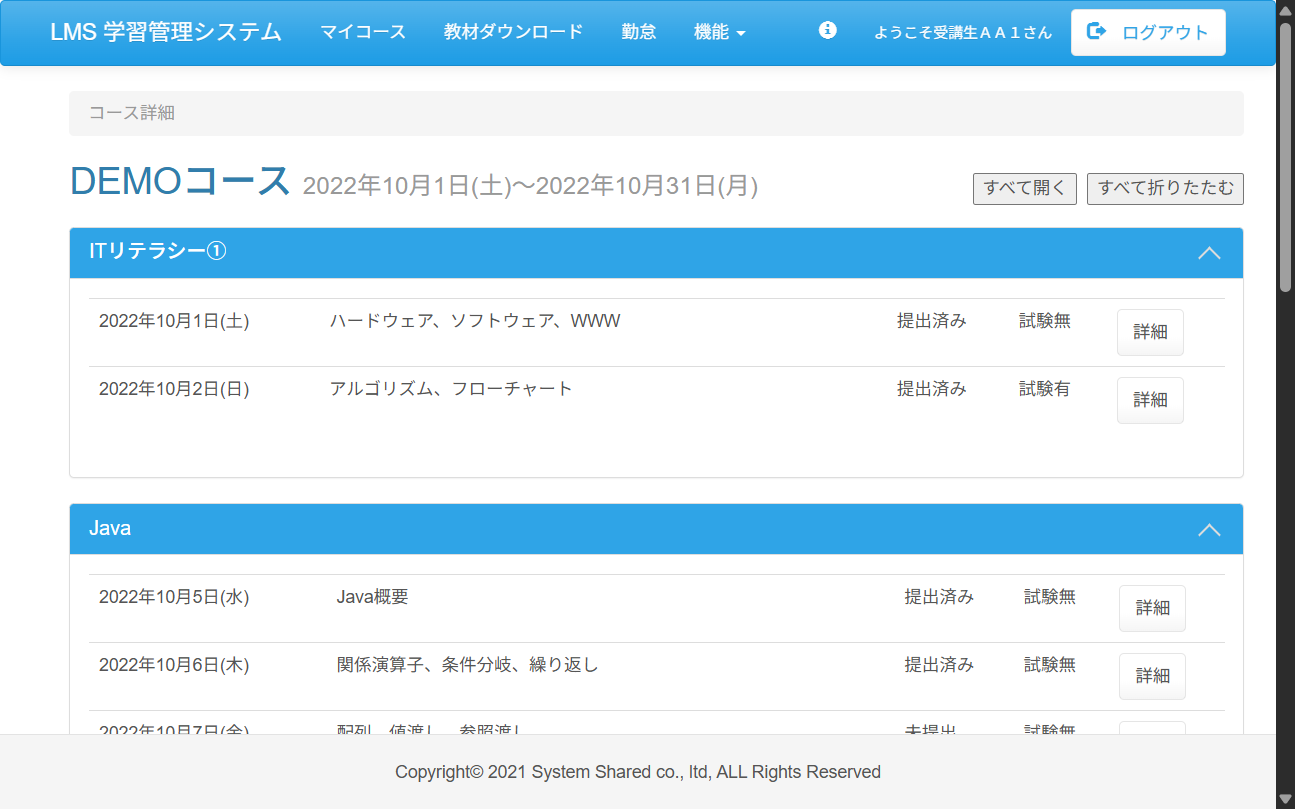
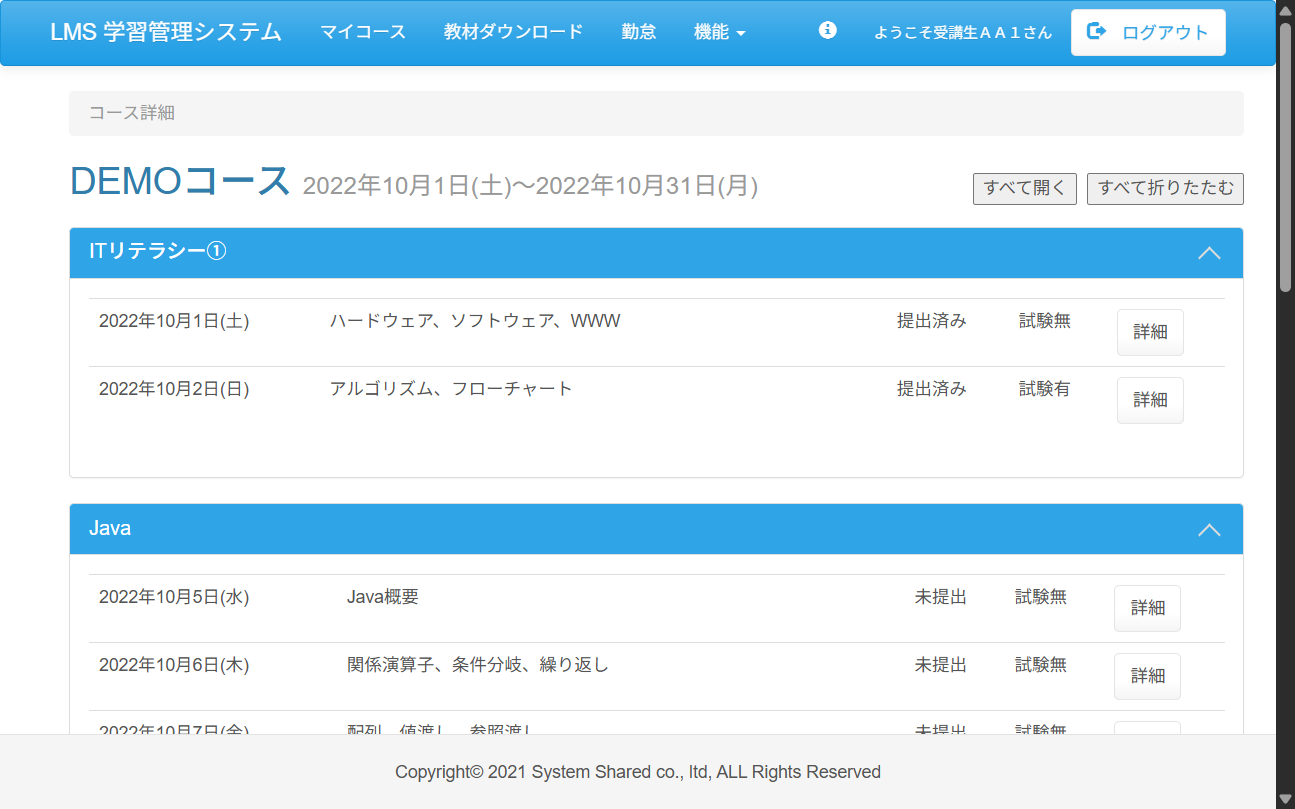
add:大橋　Case09/10
Case09/10の完了

diff --git a/test_code_creation_name/src/test/java/jp/co/sss/lms/ct/f03_report/Case09.java b/test_code_creation_name/src/test/java/jp/co/sss/lms/ct/f03_report/Case09.java
@@ -1,6 +1,7 @@
 package jp.co.sss.lms.ct.f03_report;
 
 import static jp.co.sss.lms.ct.util.WebDriverUtils.*;
+import static org.junit.jupiter.api.Assertions.*;
 
 import org.junit.jupiter.api.AfterAll;
 import org.junit.jupiter.api.BeforeAll;
@@ -9,6 +10,11 @@ import org.junit.jupiter.api.MethodOrderer.OrderAnnotation;
 import org.junit.jupiter.api.Order;
 import org.junit.jupiter.api.Test;
 import org.junit.jupiter.api.TestMethodOrder;
+import org.openqa.selenium.By;
+import org.openqa.selenium.JavascriptExecutor;
+import org.openqa.selenium.WebElement;
+
+import jp.co.sss.lms.ct.util.Constants;
 
 /**
  * 結合テスト レポート機能
@@ -35,70 +41,159 @@ public class Case09 {
 	@Order(1)
 	@DisplayName("テスト01 トップページURLでアクセス")
 	void test01() {
-		// TODO ここに追加
+		goTo("http://localhost:" + Constants.PORT + "/lms");
+		assertEquals(Constants.CONTEXT_PATH + "/", webDriver.getCurrentUrl());
+		getEvidence(new Object() {});
 	}
 
 	@Test
 	@Order(2)
 	@DisplayName("テスト02 初回ログイン済みの受講生ユーザーでログイン")
 	void test02() {
-		// TODO ここに追加
+		loginWithTheUsed();
+		assertEquals(Constants.CONTEXT_PATH + "/course/detail", webDriver.getCurrentUrl());
+		getEvidence(new Object() {});
 	}
 
 	@Test
 	@Order(3)
 	@DisplayName("テスト03 上部メニューの「ようこそ○○さん」リンクからユーザー詳細画面に遷移")
 	void test03() {
-		// TODO ここに追加
-	}
+		WebElement welcomeUser = webDriver.findElement(By.partialLinkText("ようこそ"));
+		welcomeUser.click();
+		assertEquals(Constants.CONTEXT_PATH + "/user/detail"
+				,webDriver.getCurrentUrl());
+		getEvidence(new Object() {});	}
 
 	@Test
 	@Order(4)
 	@DisplayName("テスト04 該当レポートの「修正する」ボタンを押下しレポート登録画面に遷移")
 	void test04() {
-		// TODO ここに追加
+		WebElement detailButton = webDriver.findElement(By.xpath(
+				"//th[contains(text(),'レポート')]/../.."
+				+"/tr[position() = 2]"
+				+ "/td[position() = 5]/form[position() = 2]"
+				+ "/input[contains(@value,'修正する')]"));
+		JavascriptExecutor js = (JavascriptExecutor)webDriver;
+		js.executeScript("window.scrollTo(0, document.body.scrollHeight);");
+		detailButton.click();
+		assertEquals(Constants.CONTEXT_PATH + "/report/regist"
+				,webDriver.getCurrentUrl());
+		getEvidence(new Object() {});
 	}
 
 	@Test
 	@Order(5)
 	@DisplayName("テスト05 報告内容を修正して「提出する」ボタンを押下しエラー表示：学習項目が未入力")
 	void test05() {
-		// TODO ここに追加
+		WebElement textarea = webDriver.findElement(By.id("intFieldName_0"));
+		textarea.clear();
+		WebElement select = webDriver.findElement(By.id("intFieldValue_0"));
+		select.click();
+		WebElement optionOne = webDriver.findElement(By.name("intFieldValue_$[i]"));
+		optionOne.click();
+		WebElement submit = webDriver.findElement(By.xpath(
+				"//div[contains(@class,'form-group')]"
+				+ "/div/button[contains(text(),'提出する')]"));
+		JavascriptExecutor js = (JavascriptExecutor)webDriver;
+		js.executeScript("window.scrollTo(0, document.body.scrollHeight);");
+		submit.click();
+		assertTrue(webDriver.getCurrentUrl().contains("/report/complete"));
+		getEvidence(new Object() {});
 	}
 
 	@Test
 	@Order(6)
 	@DisplayName("テスト06 不適切な内容で修正して「提出する」ボタンを押下しエラー表示：理解度が未入力")
 	void test06() {
-		// TODO ここに追加
+		WebElement textarea = webDriver.findElement(By.id("intFieldName_0"));
+		textarea.clear();
+		textarea.sendKeys("パソコン教室");
+		WebElement select = webDriver.findElement(By.id("intFieldValue_0"));
+		select.click();
+		WebElement optionOne = webDriver.findElement(By.name("intFieldValue_$[i]"));
+		WebElement optionZero = optionOne.findElement(By.xpath("../option[position()=1]"));
+		optionZero.click();
+		WebElement submit = webDriver.findElement(By.xpath(
+				"//div[contains(@class,'form-group')]"
+				+ "/div/button[contains(text(),'提出する')]"));
+		JavascriptExecutor js = (JavascriptExecutor)webDriver;
+		js.executeScript("window.scrollTo(0, document.body.scrollHeight);");
+		submit.click();
+		assertTrue(webDriver.getCurrentUrl().contains("/report/complete"));
+		getEvidence(new Object() {});
 	}
 
 	@Test
 	@Order(7)
 	@DisplayName("テスト07 不適切な内容で修正して「提出する」ボタンを押下しエラー表示：目標の達成度が数値以外")
 	void test07() {
-		// TODO ここに追加
+		WebElement textarea = webDriver.findElement(By.id("content_0"));
+		textarea.clear();
+		textarea.sendKeys("💮");
+		WebElement submit = webDriver.findElement(By.xpath(
+				"//div[contains(@class,'form-group')]"
+				+ "/div/button[contains(text(),'提出する')]"));
+		JavascriptExecutor js = (JavascriptExecutor)webDriver;
+		js.executeScript("window.scrollTo(0, document.body.scrollHeight);");
+		submit.click();
+		assertTrue(webDriver.getCurrentUrl().contains("/report/complete"));
+		getEvidence(new Object() {});
 	}
 
 	@Test
 	@Order(8)
 	@DisplayName("テスト08 不適切な内容で修正して「提出する」ボタンを押下しエラー表示：目標の達成度が範囲外")
 	void test08() {
-		// TODO ここに追加
+		WebElement textarea = webDriver.findElement(By.id("content_0"));
+		textarea.clear();
+		textarea.sendKeys("0");
+		WebElement submit = webDriver.findElement(By.xpath(
+				"//div[contains(@class,'form-group')]"
+				+ "/div/button[contains(text(),'提出する')]"));
+		JavascriptExecutor js = (JavascriptExecutor)webDriver;
+		js.executeScript("window.scrollTo(0, document.body.scrollHeight);");
+		submit.click();
+		assertTrue(webDriver.getCurrentUrl().contains("/report/complete"));
+		getEvidence(new Object() {});
 	}
 
 	@Test
 	@Order(9)
 	@DisplayName("テスト09 不適切な内容で修正して「提出する」ボタンを押下しエラー表示：目標の達成度・所感が未入力")
 	void test09() {
-		// TODO ここに追加
+		WebElement achieve = webDriver.findElement(By.id("content_0"));
+		achieve.clear();
+		WebElement opinion = webDriver.findElement(By.id("content_1"));
+		opinion.clear();
+		WebElement submit = webDriver.findElement(By.xpath(
+				"//div[contains(@class,'form-group')]"
+				+ "/div/button[contains(text(),'提出する')]"));
+		JavascriptExecutor js = (JavascriptExecutor)webDriver;
+		js.executeScript("window.scrollTo(0, document.body.scrollHeight);");
+		submit.click();
+		assertTrue(webDriver.getCurrentUrl().contains("/report/complete"));
+		getEvidence(new Object() {});
 	}
 
 	@Test
 	@Order(10)
 	@DisplayName("テスト10 不適切な内容で修正して「提出する」ボタンを押下しエラー表示：所感・一週間の振り返りが2000文字超")
 	void test10() {
-		// TODO ここに追加
+		WebElement opinion = webDriver.findElement(By.id("content_1"));
+		opinion.clear();
+		opinion.sendKeys(Constants.CHAR_2001);
+		WebElement reflection = webDriver.findElement(By.id("content_2"));
+		reflection.clear();
+		reflection.sendKeys(Constants.CHAR_2001);
+		WebElement submit = webDriver.findElement(By.xpath(
+				"//div[contains(@class,'form-group')]"
+				+ "/div/button[contains(text(),'提出する')]"));
+		JavascriptExecutor js = (JavascriptExecutor)webDriver;
+		js.executeScript("window.scrollTo(0, document.body.scrollHeight);");
+		submit.click();
+		assertTrue(webDriver.getCurrentUrl().contains("/report/complete"));
+		getEvidence(new Object() {});
 	}
 
 }

diff --git a/test_code_creation_name/src/test/java/jp/co/sss/lms/ct/f04_attendance/Case10.java b/test_code_creation_name/src/test/java/jp/co/sss/lms/ct/f04_attendance/Case10.java
@@ -1,6 +1,7 @@
 package jp.co.sss.lms.ct.f04_attendance;
 
 import static jp.co.sss.lms.ct.util.WebDriverUtils.*;
+import static org.junit.jupiter.api.Assertions.*;
 
 import org.junit.jupiter.api.AfterAll;
 import org.junit.jupiter.api.BeforeAll;
@@ -9,6 +10,11 @@ import org.junit.jupiter.api.MethodOrderer.OrderAnnotation;
 import org.junit.jupiter.api.Order;
 import org.junit.jupiter.api.Test;
 import org.junit.jupiter.api.TestMethodOrder;
+import org.openqa.selenium.Alert;
+import org.openqa.selenium.By;
+import org.openqa.selenium.WebElement;
+
+import jp.co.sss.lms.ct.util.Constants;
 
 /**
  * 結合テスト 勤怠管理機能
@@ -35,35 +41,71 @@ public class Case10 {
 	@Order(1)
 	@DisplayName("テスト01 トップページURLでアクセス")
 	void test01() {
-		// TODO ここに追加
+		goTo("http://localhost:" + Constants.PORT + "/lms");
+		assertEquals(Constants.CONTEXT_PATH + "/", webDriver.getCurrentUrl());
+		getEvidence(new Object() {
+		});
 	}
 
 	@Test
 	@Order(2)
 	@DisplayName("テスト02 初回ログイン済みの受講生ユーザーでログイン")
 	void test02() {
-		// TODO ここに追加
+		loginWithTheUsed();
+		assertEquals(Constants.CONTEXT_PATH + "/course/detail", webDriver.getCurrentUrl());
+		getEvidence(new Object() {
+		});
 	}
 
 	@Test
 	@Order(3)
 	@DisplayName("テスト03 上部メニューの「勤怠」リンクから勤怠管理画面に遷移")
 	void test03() {
-		// TODO ここに追加
+		WebElement attendance = webDriver.findElement(By.id("nav-content"));
+		attendance.click();
+		pageLoadTimeout(5);
+	    Alert alert = webDriver.switchTo().alert();
+	    alert.accept();
+		assertEquals(Constants.CONTEXT_PATH + "/attendance/detail", webDriver.getCurrentUrl());
+		getEvidence(new Object() {
+		});
 	}
 
 	@Test
 	@Order(4)
 	@DisplayName("テスト04 「出勤」ボタンを押下し出勤時間を登録")
 	void test04() {
-		// TODO ここに追加
+		WebElement punchIn = webDriver.findElement(By.xpath("//input[contains(@name, 'punchIn')]"));
+		punchIn.click();
+		pageLoadTimeout(5);
+		Alert alert = webDriver.switchTo().alert();
+	    alert.accept();
+	    //エラーメッセージが出現していればOK
+	    WebElement errorMsg = webDriver.findElement(By.xpath("//div[contains(@id,'main')]/ul"));
+	    assertEquals( 
+	    		"* 研修のない日に出退勤を記録することはできません。直接編集してください。",
+	    		errorMsg.getText());
+		assertEquals(Constants.CONTEXT_PATH + "/attendance/detail", webDriver.getCurrentUrl());
+		getEvidence(new Object() {
+		});
 	}
 
 	@Test
 	@Order(5)
 	@DisplayName("テスト05 「退勤」ボタンを押下し退勤時間を登録")
 	void test05() {
-		// TODO ここに追加
+		WebElement punchOut = webDriver.findElement(By.xpath("//input[contains(@name, 'punchOut')]"));
+		punchOut.click();
+		pageLoadTimeout(5);
+		Alert alert = webDriver.switchTo().alert();
+	    alert.accept();
+	    WebElement errorMsg = webDriver.findElement(By.xpath("//div[contains(@id,'main')]/ul"));
+	    assertEquals(
+	    		"* 研修のない日に出退勤を記録することはできません。直接編集してください。",
+	    		errorMsg.getText());
+		assertEquals(Constants.CONTEXT_PATH + "/attendance/detail", webDriver.getCurrentUrl());
+		getEvidence(new Object() {
+		});
 	}
 
 }

diff --git a/test_code_creation_name/src/test/java/jp/co/sss/lms/ct/util/Constants.java b/test_code_creation_name/src/test/java/jp/co/sss/lms/ct/util/Constants.java
@@ -16,4 +16,10 @@ public class Constants {
 
 	//コンテクストパス
 	public static final String CONTEXT_PATH = "http://localhost:8080/lms";
+	
+	
+	
+	//入力チェック用(2001文字)、必ず最下部に置く
+	public static final String CHAR_2001 = "01234567890123456789"
[1 lines of base64/hex data omitted]
 }
